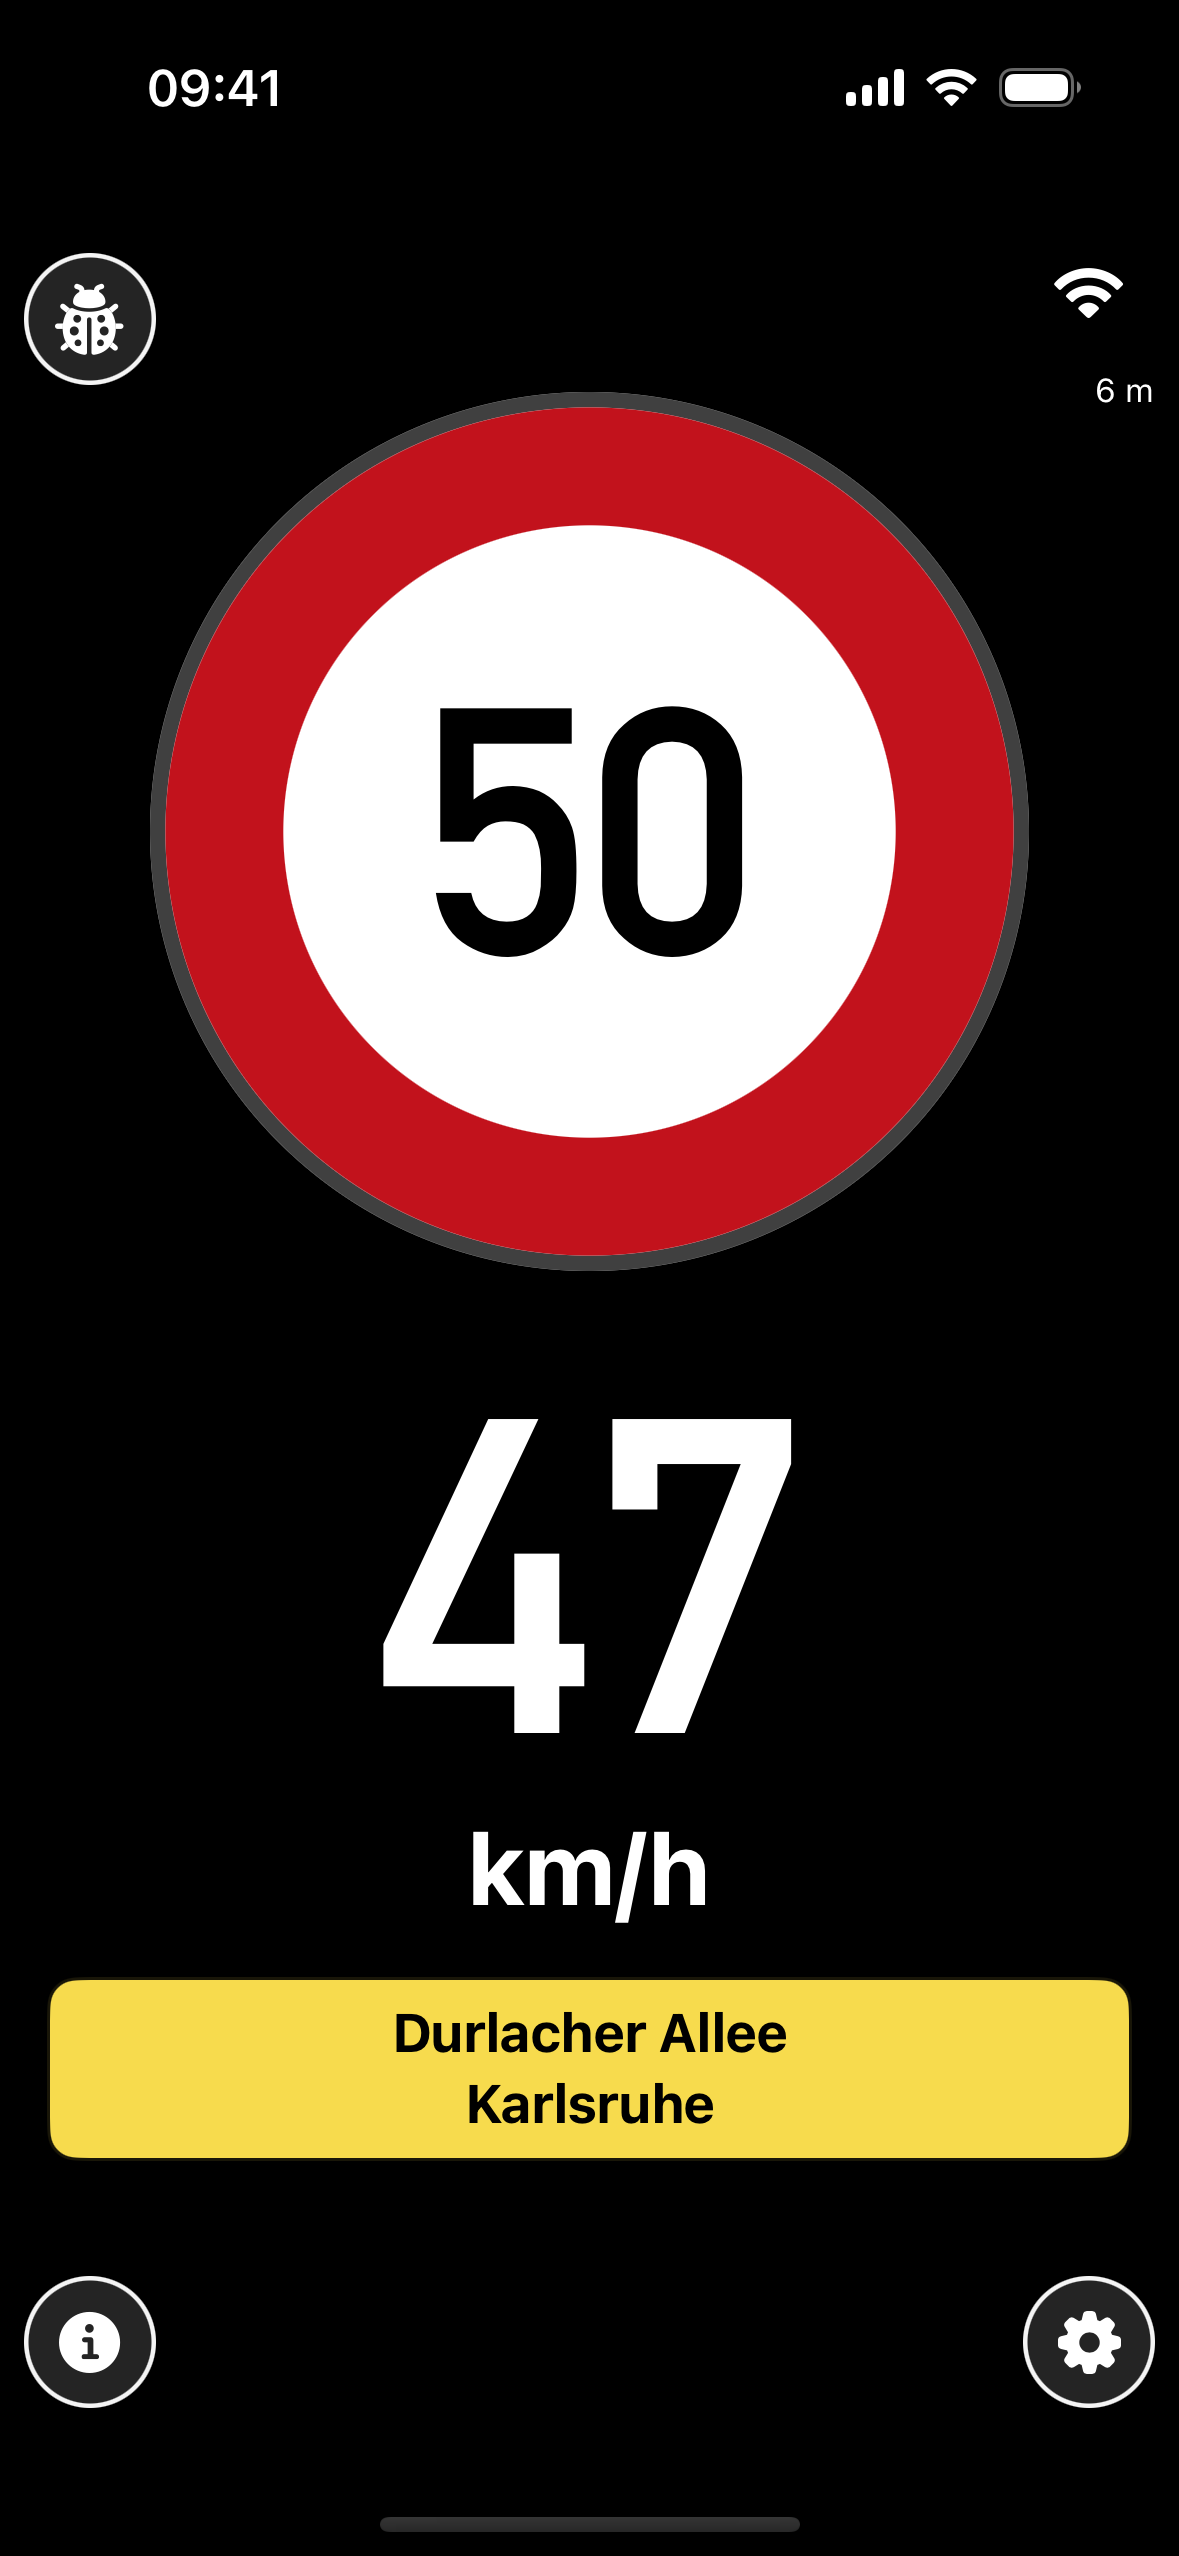
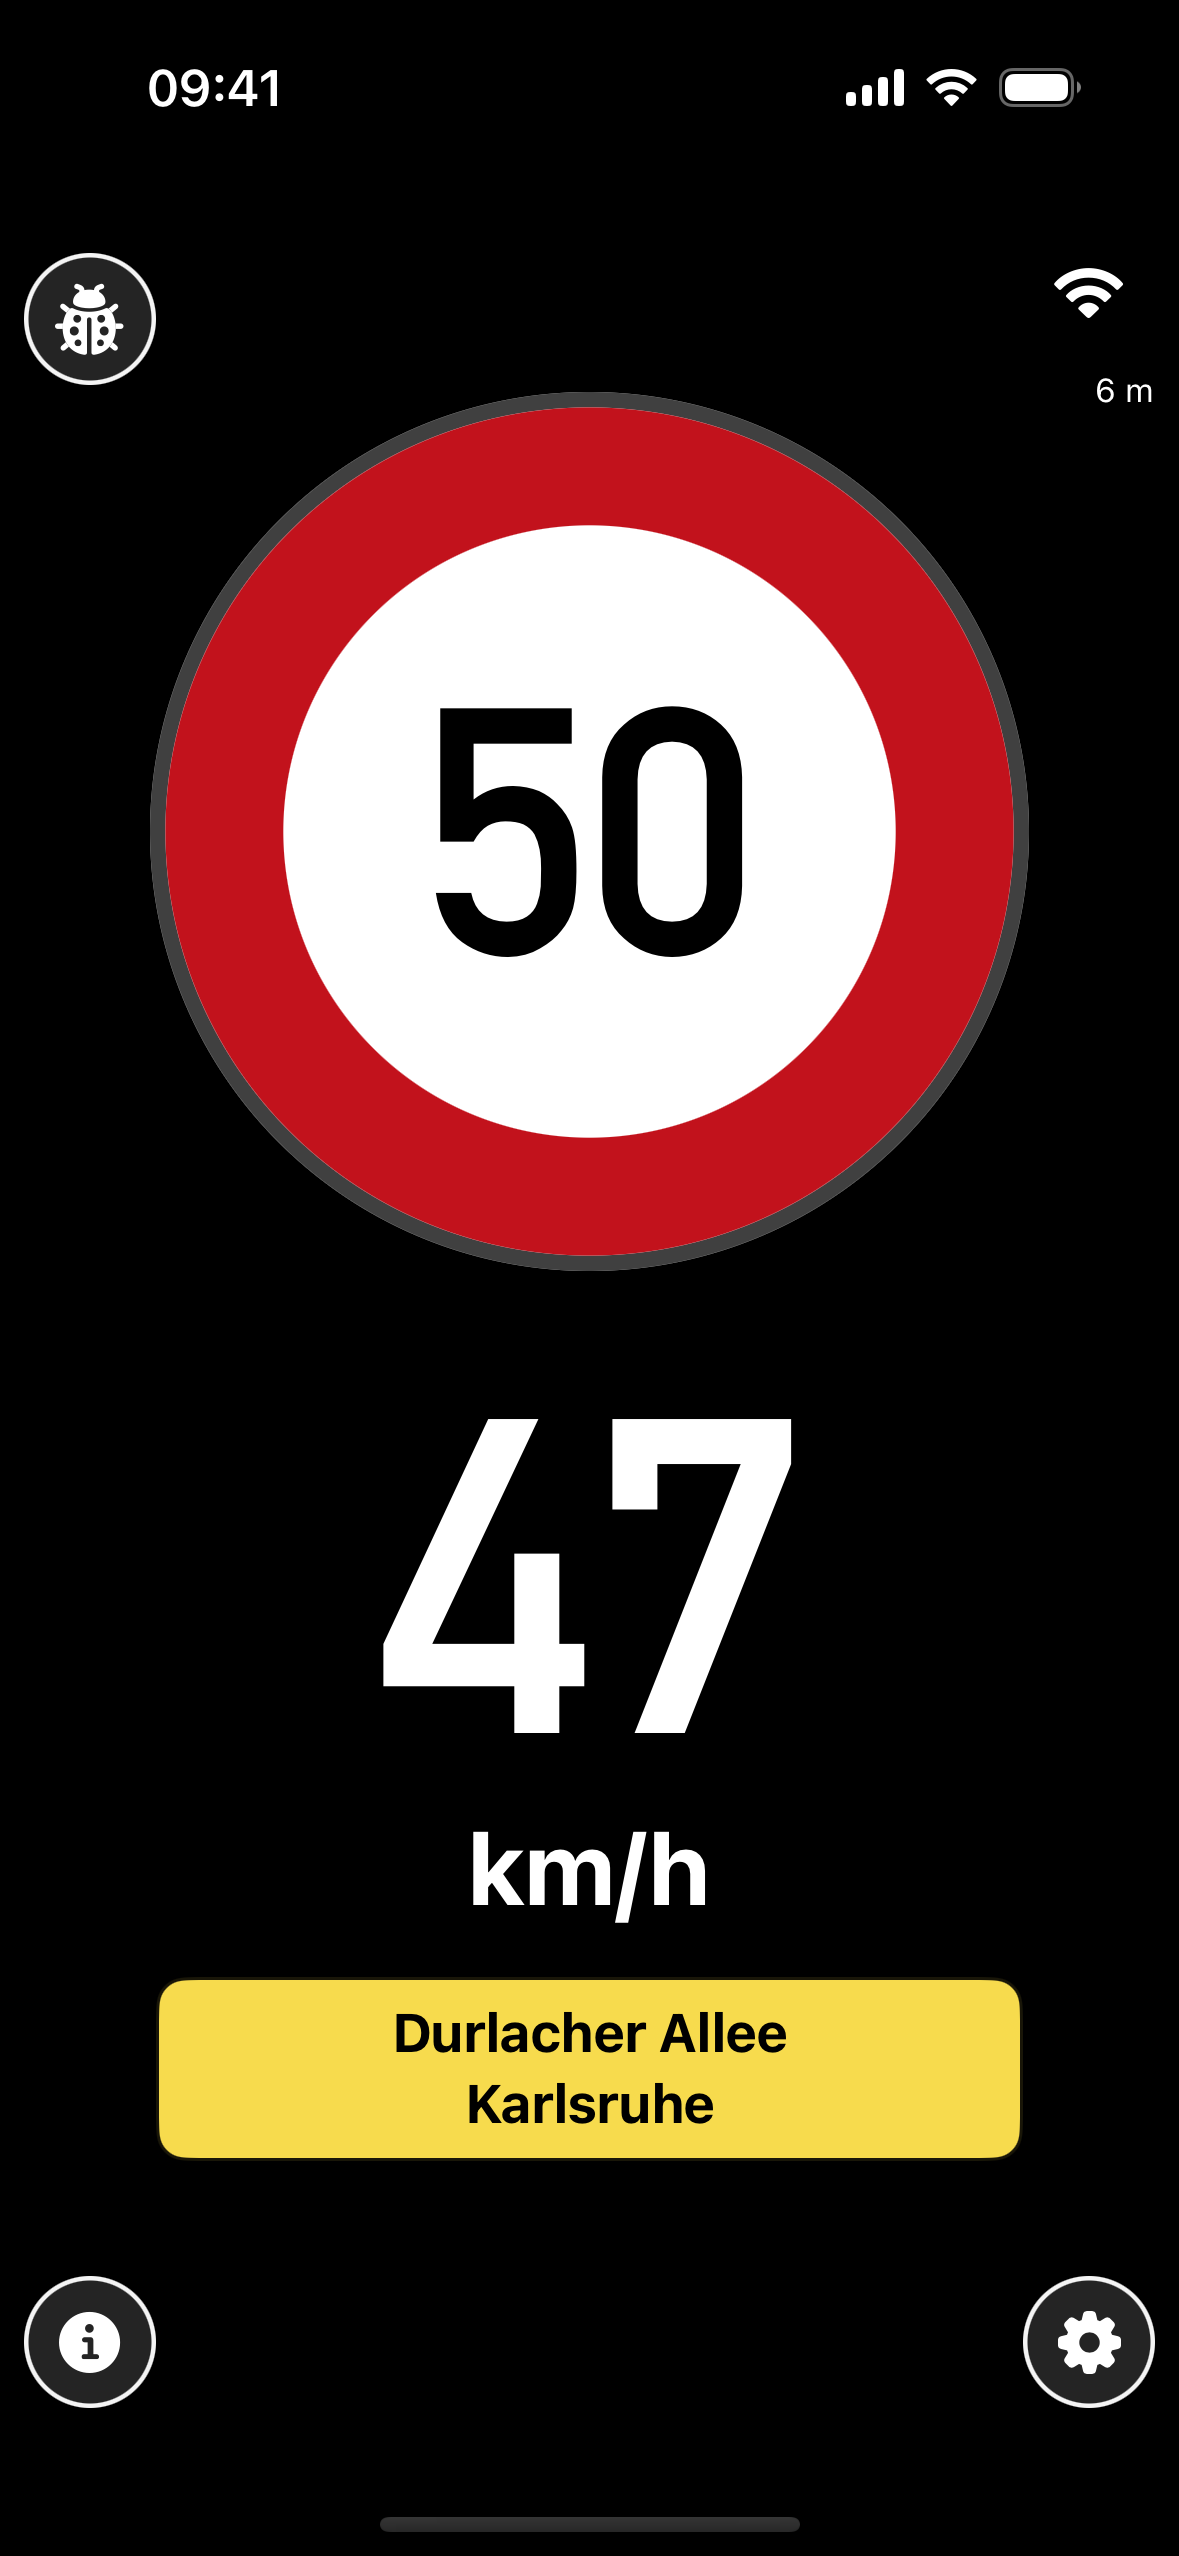
Tighten mobile location badge layout

Changed region(s): [[0.0305, 0.7727, 0.1527, 0.8654], [0.855, 0.7727, 0.9771, 0.8654]]

diff --git a/iphone/SpeedConsumerApp/MainView.swift b/iphone/SpeedConsumerApp/MainView.swift
@@ -30,6 +30,7 @@ struct MainView: View {
             let screenInset = minDimension * 0.02
             let horizontalPadding = max(12, proxy.size.width * 0.04)
             let controlDiameter: CGFloat = 44
+            let bottomButtonGapWidth = max(0, proxy.size.width - (screenInset * 2) - (controlDiameter * 2))
             let topPadding = max(screenInset, proxy.safeAreaInsets.top * 0.28)
             let bottomPadding = max(screenInset, proxy.safeAreaInsets.bottom * 0.45)
             let sectionGap = max(14, minDimension * 0.04)
@@ -39,7 +40,7 @@ struct MainView: View {
             let contentBottomInset = bottomControlTopInset + max(10, minDimension * 0.03)
             let locationReserve = viewModel.isInSpeedCaptureMode
                 ? CGFloat(0)
-                : (shouldShowCityBadge
+                : (showsLocationBadge
                     ? max(58, minDimension * 0.16)
                     : max(40, minDimension * 0.11))
             let signWidthBudget = min(proxy.size.width * 0.82, proxy.size.width - (horizontalPadding * 2))
@@ -89,6 +90,7 @@ struct MainView: View {
                     .padding(.horizontal, horizontalPadding)
 
                     locationStatusBlock(
+                        badgeWidth: bottomButtonGapWidth,
                         debugFont: debugFont,
                         debugSpacing: debugSpacing
                     )
@@ -255,16 +257,20 @@ struct MainView: View {
 
     @ViewBuilder
     private func locationStatusBlock(
+        badgeWidth: CGFloat,
         debugFont: CGFloat,
         debugSpacing: CGFloat
     ) -> some View {
         Group {
             if viewModel.isInSpeedCaptureMode {
                 Color.clear
-            } else if shouldShowCityBadge {
+            } else if showsLocationBadge {
                 CityLimitBadgeView(
                     streetName: cityBadgeStreetText ?? "",
-                    cityName: cityBadgeCityText ?? ""
+                    cityName: cityBadgeCityText ?? "",
+                    highlighted: highlightsCityBadge,
+                    foregroundColor: highlightsCityBadge ? .black : primaryForegroundColor,
+                    badgeWidth: badgeWidth
                 )
                 .contentShape(Rectangle())
                 .onTapGesture(count: 2) {
@@ -398,11 +404,15 @@ struct MainView: View {
         normalizedPlaceText(viewModel.limitCityName)
     }
 
-    private var shouldShowCityBadge: Bool {
-        guard viewModel.lastLookupInsideCity == true else {
+    private var showsLocationBadge: Bool {
+        guard !viewModel.isInSpeedCaptureMode else {
             return false
         }
         return cityBadgeStreetText != nil || cityBadgeCityText != nil
+    }
+
+    private var highlightsCityBadge: Bool {
+        viewModel.lastLookupInsideCity == true
     }
 
     private var finePresentation: SpeedPenaltyNotice? {
@@ -799,6 +809,9 @@ private enum LegalTextLoader {
 private struct CityLimitBadgeView: View {
     let streetName: String
     let cityName: String
+    let highlighted: Bool
+    let foregroundColor: Color
+    let badgeWidth: CGFloat
 
     var body: some View {
         VStack(spacing: 2) {
@@ -806,26 +819,27 @@ private struct CityLimitBadgeView: View {
                 Text(streetName)
                     .font(.system(size: 18, weight: .bold, design: .default))
                     .lineLimit(1)
-                    .minimumScaleFactor(0.75)
+                    .truncationMode(.tail)
             }
             if !cityName.isEmpty {
                 Text(cityName)
                     .font(.system(size: 18, weight: .bold, design: .default))
                     .lineLimit(1)
-                    .minimumScaleFactor(0.75)
+                    .truncationMode(.tail)
             }
         }
-        .foregroundStyle(.black)
+        .foregroundStyle(foregroundColor)
         .frame(maxWidth: .infinity)
         .padding(.horizontal, 12)
         .padding(.vertical, 8)
+        .frame(width: badgeWidth)
         .background(
             RoundedRectangle(cornerRadius: 10, style: .continuous)
-                .fill(Color(red: 0.97, green: 0.86, blue: 0.30))
+                .fill(highlighted ? Color(red: 0.97, green: 0.86, blue: 0.30) : .clear)
         )
         .overlay(
             RoundedRectangle(cornerRadius: 10, style: .continuous)
-                .stroke(Color.black.opacity(0.9), lineWidth: 2)
+                .stroke(highlighted ? Color.black.opacity(0.9) : .clear, lineWidth: 2)
         )
     }
 }

diff --git a/android/app/src/main/java/de/youspeed/android/alpha/ConsumerAppUi.kt b/android/app/src/main/java/de/youspeed/android/alpha/ConsumerAppUi.kt
@@ -133,6 +133,7 @@ private const val SPEED_LIMIT_NUMBER_SCALE = 0.5f
 private const val SECONDARY_TEXT_RATIO = 9f / 16f
 private const val DEBUG_WIDTH_REFERENCE = "N00.0000 O000.0000"
 private val CITY_BADGE_TEXT_SIZE = 18.sp
+private val CONTROL_BUTTON_DIAMETER = 44.dp
 private val TrafficSignFontFamily = FontFamily(
     Font(R.font.u_din_1451_mittelschrift_regular, weight = FontWeight.Normal),
 )
@@ -541,6 +542,10 @@ private fun MainScreen(
         val metricDebugGap = max(12f, minDimensionDp.value * 0.024f).dp
         val debugSpacing = max(2f, minDimensionDp.value * 0.004f).dp
         val contentHorizontalPadding = max(12f, maxWidth.value * 0.04f).dp
+        val bottomButtonGapWidth = max(
+            0f,
+            maxWidth.value - (screenInset.value * 2f) - (CONTROL_BUTTON_DIAMETER.value * 2f),
+        ).dp
 
         Column(
             modifier = Modifier
@@ -592,6 +597,7 @@ private fun MainScreen(
                 debugSpacing = debugSpacing,
                 metricDebugGap = metricDebugGap,
                 contentHorizontalPadding = contentHorizontalPadding,
+                locationBadgeWidth = bottomButtonGapWidth,
                 runtimeBanner = runtimeBanner,
                 onOpenDebug = onOpenDebug,
             )
@@ -706,7 +712,7 @@ private fun PillIconButton(
         color = background,
         border = androidx.compose.foundation.BorderStroke(1.5.dp, border),
     ) {
-        IconButton(onClick = onClick, modifier = Modifier.size(44.dp)) {
+        IconButton(onClick = onClick, modifier = Modifier.size(CONTROL_BUTTON_DIAMETER)) {
             content()
         }
     }
@@ -829,6 +835,7 @@ private fun LocationStatusBlock(
     debugSpacing: androidx.compose.ui.unit.Dp,
     metricDebugGap: androidx.compose.ui.unit.Dp,
     contentHorizontalPadding: androidx.compose.ui.unit.Dp,
+    locationBadgeWidth: androidx.compose.ui.unit.Dp,
     runtimeBanner: RuntimeBanner?,
     onOpenDebug: () -> Unit,
 ) {
@@ -843,6 +850,9 @@ private fun LocationStatusBlock(
             CityBadge(
                 streetName = ConsumerMainScreenLogic.cityBadgeStreetText(ui).orEmpty(),
                 cityName = ConsumerMainScreenLogic.cityBadgeCityText(ui).orEmpty(),
+                highlighted = ConsumerMainScreenLogic.shouldHighlightCityBadge(ui),
+                badgeWidth = locationBadgeWidth,
+                foreground = foreground,
                 onOpenDebug = onOpenDebug,
             )
         } else if (rendersSearchInLabelSlot) {
@@ -918,15 +928,23 @@ private fun LocationStatusBlock(
 private fun CityBadge(
     streetName: String,
     cityName: String,
+    highlighted: Boolean,
+    badgeWidth: androidx.compose.ui.unit.Dp,
+    foreground: Color,
     onOpenDebug: () -> Unit,
 ) {
     Card(
         modifier = Modifier
-            .fillMaxWidth()
+            .width(badgeWidth)
             .clickable { onOpenDebug() }
             .testTag("city-badge"),
-        colors = CardDefaults.cardColors(containerColor = BrightYellow),
-        border = androidx.compose.foundation.BorderStroke(2.dp, Color.Black.copy(alpha = 0.9f)),
+        colors = CardDefaults.cardColors(
+            containerColor = if (highlighted) BrightYellow else Color.Transparent,
+        ),
+        border = androidx.compose.foundation.BorderStroke(
+            width = if (highlighted) 2.dp else 0.dp,
+            color = if (highlighted) Color.Black.copy(alpha = 0.9f) else Color.Transparent,
+        ),
     ) {
         Column(
             modifier = Modifier
@@ -937,7 +955,7 @@ private fun CityBadge(
             if (streetName.isNotBlank()) {
                 Text(
                     streetName,
-                    color = Color.Black,
+                    color = if (highlighted) Color.Black else foreground,
                     fontWeight = FontWeight.Bold,
                     fontSize = CITY_BADGE_TEXT_SIZE,
                     textAlign = TextAlign.Center,
@@ -949,7 +967,7 @@ private fun CityBadge(
             if (cityName.isNotBlank()) {
                 Text(
                     cityName,
-                    color = Color.Black,
+                    color = if (highlighted) Color.Black else foreground,
                     fontWeight = FontWeight.Bold,
                     fontSize = CITY_BADGE_TEXT_SIZE,
                     textAlign = TextAlign.Center,

diff --git a/android/app/src/test/java/de/youspeed/android/alpha/ConsumerParityTests.kt b/android/app/src/test/java/de/youspeed/android/alpha/ConsumerParityTests.kt
@@ -180,4 +180,22 @@ class ConsumerParityTests {
         assertEquals(0, ConsumerMainScreenLogic.currentOverspeedKmh(state))
         assertTrue(ConsumerMainScreenLogic.showsPedestrianZoneSign(state))
     }
+
+    @Test
+    fun mainScreenLogicShowsCompactPlaceBadgeOutsideCityWhenStreetAndCityKnown() {
+        val state = ConsumerUiState(
+            startupDataState = StartupDataState.READY,
+            activeDBPath = "/tmp/mock.sqlite",
+            currentLatitude = 49.0180,
+            currentLongitude = 8.3501,
+            gpsSignalBars = 4,
+            limitStreetName = "A 5",
+            limitCityName = "Karlsruhe",
+            limitWayId = "autobahn-unlimited-130-plus",
+            lastLookupInsideCity = false,
+        )
+
+        assertTrue(ConsumerMainScreenLogic.shouldShowCityBadge(state))
+        assertFalse(ConsumerMainScreenLogic.shouldHighlightCityBadge(state))
+    }
 }

diff --git a/android/app/src/main/java/de/youspeed/android/alpha/ConsumerPresentation.kt b/android/app/src/main/java/de/youspeed/android/alpha/ConsumerPresentation.kt
@@ -133,11 +133,10 @@ object ConsumerMainScreenLogic {
         if (isInSpeedCaptureMode(state)) {
             return false
         }
-        if (state.lastLookupInsideCity != true) {
-            return false
-        }
         return cityBadgeStreetText(state) != null || cityBadgeCityText(state) != null
     }
+
+    fun shouldHighlightCityBadge(state: ConsumerUiState): Boolean = state.lastLookupInsideCity == true
 
     fun cityBadgeStreetText(state: ConsumerUiState): String? = normalizedPlaceText(state.limitStreetName)
 
